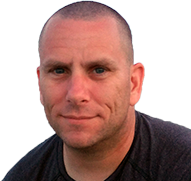
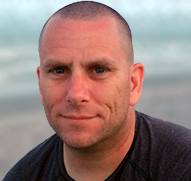
Content update
Adjust grid settings for Content
Add new photo and settings
Center-ize

diff --git a/css/style.css b/css/style.css
@@ -55,7 +55,7 @@ body {
 }
 .header {
   grid-area: header;
-  grid-column: 2 / 3;
+  grid-column: 1 / 4;;
   grid-row: 1 / 2;
 }
 h1 {
@@ -65,31 +65,39 @@ h1 {
   text-shadow: 1px 2px  2px #000000;
 }
 h2 {
-  font-family: Ubuntu;
+  font-family: Cambay;
   font-size: 24px;
-  color: #030303;
+  color: #025fa1;
   text-align: center;
+  text-shadow: 0 1px 2px rgba(3,3,3,.5);
+}
+h2 a {
+  text-decoration: none;
+  color: #025fa1;
 }
 p {
   font-family: Ubuntu;
   font-size: 12px;
   color: #bcbcbc;
 }
-.mainPhoto {
+.photoContainer {
   grid-area: image;
-  grid-column: 2 / 3;
-  grid-row: 2 / 4;
-  justify-items: space-around;
+  grid-column: 1 / 4;
+  grid-row: 2 / 5;
+  justify-items: center;
   align-items: center;
+}
+img {
+  border-radius: 8px;
 }
 .responsive {
   max-width: 100%;
   height: auto;
 }
-.mainContent {
+.titleContent {
   grid-area: content;
-  grid-column: 1 / 3;
-  grid-row: 4 / 5;
+  grid-column: 1 / 4;
+  grid-row: 6 / 7;
   justify-items: center;
   align-items: center;
   display: flex;
@@ -106,44 +114,6 @@ p {
 }
 .fas, .fab {
   margin-top: 8px;
-}
-.photoContainer {
-  position: relative;
-  width: 50%;
-}
-.img {
-  display: block;
-  width: 90%;
-  height: auto;
-  margin-right: auto;
-  margin-left: auto;
-}
-.overlay {
-  position: absolute;
-  top: 0;
-  bottom: 0;
-  left: 0;
-  right: 0;
-  height: 100%;
-  width: 100%;
-  opacity: 0;
-  transition: .5s ease;
-  background-color: #424243;
-  border: 2px ridge #424243;
-  border-radius: 8px;
-}
-.photoContainer:hover .overlay {
-  opacity: 1;
-}
-.message {
-  color: #3fdb87;
-  font-size: 24px;
-  font-family: Exo;
-  position: absolute;
-  top: 50%;
-  left: 50%;
-  transform: translate(-50%, -50%);
-  -ms-transform: translate(-50%, -50%);
 }
 @media screen and (min-width: 769px) {
   .navbar {

diff --git a/index.html b/index.html
@@ -27,16 +27,13 @@
         </div>
         <div class="photoContainer">
             <div class="img">
-                <img src="images/adrian2.png" class="image" alt="adrian grimm at Cocoa Beach in Florida">
-                <div class="overlay">
-                    <div class="message">Welcome!</div>
-                </div>
+                <img src="images/adrian2.png" class="responsive" alt="adrian grimm at Cocoa Beach in Florida">
             </div>
         </div>
         <br>
-        <div class="mainContent">
+        <div class="titleContent">
             <h2>
-                Studying to be a web developer
+                <a href="https://vetswhocode.io">Web Development Student</a>
             </h2>
         </div>
     </div>
